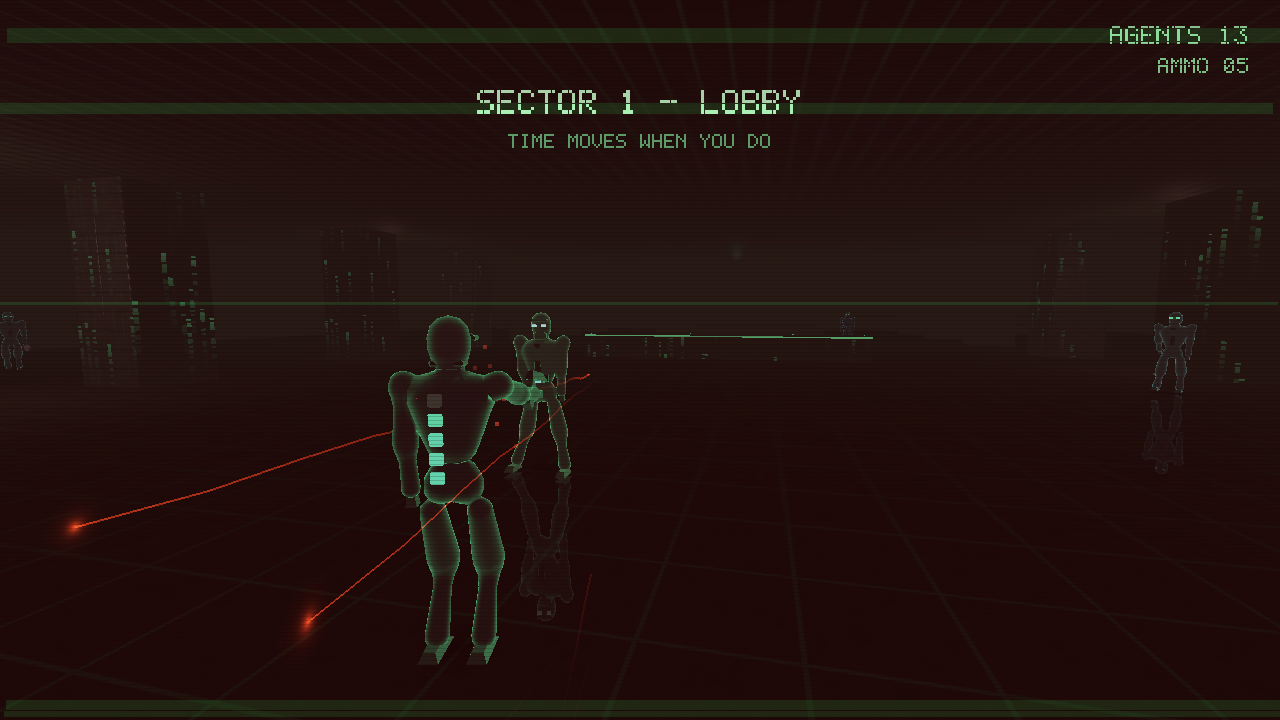
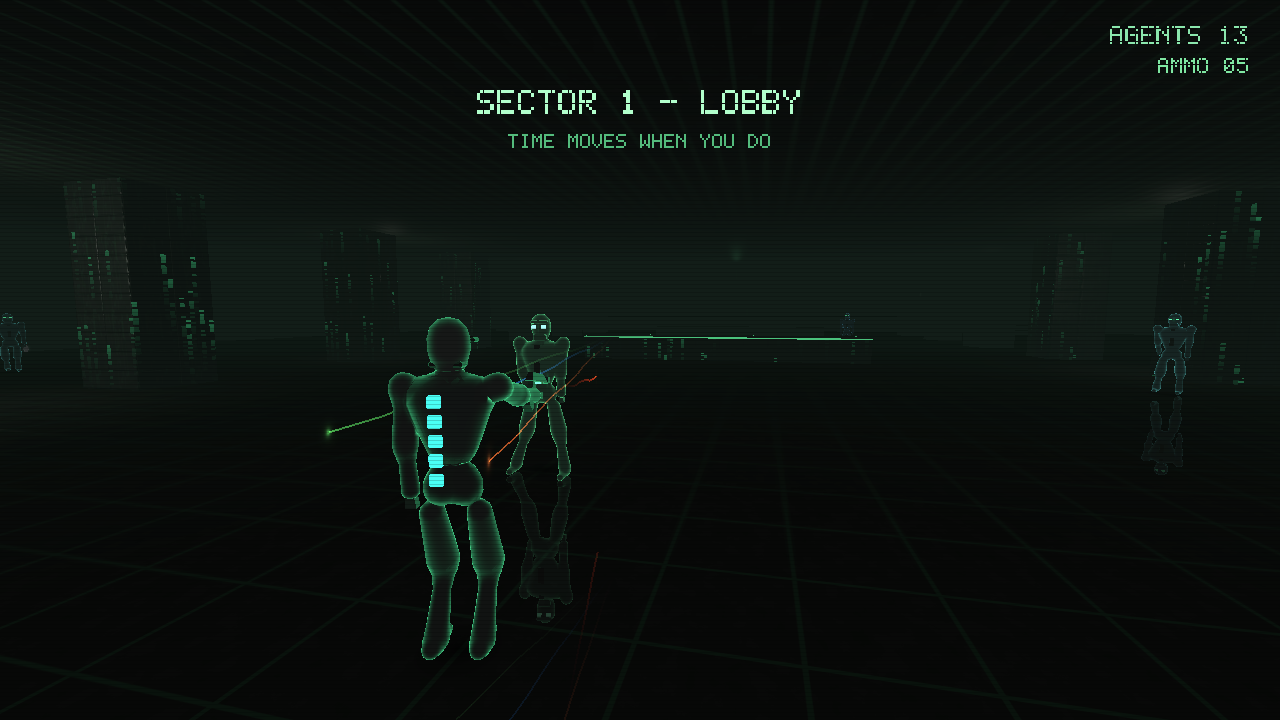
Tie the gun chain to the drawn pistol; smooth stride/torso; shell feet
The laser beam, lock-on test, muzzle flash, bullet spawn and temp light
all originated at a fixed shoulder-space offset while the visible pistol
hung off the hand IK - two unrelated coordinate systems, so the beam
floated beside the gun. The figure draws now stash the actual barrel-tip
world position each upright frame (the bladeGlow idiom) and
player_muzzle() prefers it, rewiring the whole chain to one coherent
origin with the old math as fallback (roll, katana, first frame,
distance-culled). Enemy agents get the same: their shots and muzzle
light now leave the drawn gun-box front face instead of a point 0.45u
ahead of the chest.

Motion smoothing: combat-stance torso yaw eases toward the look yaw
(angto, rate 17) instead of snapping with the mouse - safe because the
beam is glued to the gun by construction; the stride's swing half is a
cosine ease (zero foot velocity at both reversals) while the stance half
keeps the linear sweep that locks planted feet to the floor.

Feet join the blend-shell: the hard-cut foot wedges (which popped
against the smooth shell legs and rotated visibly when the body yawed
over a planted foot) become heel->toe round cones recorded into each
figure's shell - boots on the player/agents, fused digitigrade hooves on
the boss. The player's upright foot now follows the ankle instead of
being pinned to floor height, so the swing foot finally lifts with the
stride. +2 shapes/figure (player/agent 23, boss 20, within MAXSHAPES);
[…]

diff --git a/dilation.c b/dilation.c
@@ -1219,10 +1219,17 @@ static float rollT,rollCD,rollDX,rollDZ;    /* dodge roll: timer + direction  */
 static float kvx,kvz;                       /* wall-kick horizontal impulse   */
 static float pmoveb;                        /* idle<->run blend for the avatar*/
 static float avYaw;                         /* smoothed avatar facing (rad)   */
+static float cmbYaw;                        /* smoothed combat pose yaw (rad, negated convention) */
 static float camDist=3.05f,camYs=-1.0f;     /* smoothed camera boom + height  */
 static float coyT;                          /* coyote time: late edge jumps   */
 static float hurtCD;                        /* post-hit mercy window          */
 static float mzT,mzX,mzY,mzZ;               /* avatar muzzle flash            */
+/* pose-fed muzzle anchors: the figure draws stash the ACTUAL barrel-tip world
+ * position each upright frame (bladeGlow idiom); the laser/bullets/flash read
+ * it so the beam grows out of the drawn gun instead of a fixed shoulder
+ * offset. valid==0 falls back to the old rigid math (roll, katana, culled). */
+static float gunGlow[4];                    /* player pistol tip: x,y,z,valid */
+static float agentGun[MAXENEMY][4];         /* enemy pistol tips: x,y,z,valid */
 
 static float player_height(void){ return rollT>0 ? 0.85f : 1.72f; }
 static float player_camh(void){ return py + (rollT>0 ? 1.45f : 1.92f); }
@@ -1237,6 +1244,8 @@ static void reset_game(void){
   gen_level(curlevel,gseed);
   px=startx; pz=startz; pyaw=startyaw; ppitch=0; pvx=pvz=pvy=0;
   avYaw=startyaw*PI/180.0f;
+  cmbYaw=-startyaw*PI/180.0f;   /* combat pose yaw uses the negated convention */
+  gunGlow[3]=0; memset(agentGun,0,sizeof agentGun);
   py=hgt[(int)(startz/CELL)][(int)(startx/CELL)];
   php=100; pammo=6; haspistol=1; jumps=1;
   tscale=1; actT=0; mouseAcc=0;
@@ -1396,9 +1405,12 @@ static void player_aim(float*dx,float*dy,float*dz){
  * avatar's right-hand pistol so the laser/rounds read as coming from the gun,
  * while direction remains fully controlled by the player's look yaw/pitch. */
 static void player_muzzle(float*ox,float*oy,float*oz){
-  /* Keep the ballistic/laser origin near the authored right hand.  The visible
-   * pistol is attached to the hand transform in draw_player(); this fixed
-   * shoulder-space offset avoids the previous free-floating aim-basis gun. */
+  /* Preferred origin: the ACTUAL barrel tip stashed by draw_player last frame
+   * (1-frame pose latency, invisible). The beam, lock test, bullets, flash and
+   * temp light all route through here, so they stay glued to the drawn gun. */
+  if(gunGlow[3]>0){ *ox=gunGlow[0]; *oy=gunGlow[1]; *oz=gunGlow[2]; return; }
+  /* Fallback (roll, katana swing, first frame, post-reset): the old fixed
+   * shoulder-space offset near the authored right hand. */
   float yr=avYaw;
   float fx=sinf(yr), fz=-cosf(yr), rx=cosf(yr), rz=sinf(yr);
   float crouch=rollT>0?0.46f:1.0f;
@@ -1773,6 +1785,10 @@ static void update_enemies(float wdt){
            * roll under it, jump over it, or stand still and study it */
           float my=e->y+1.36f, aimY=py+1.28f;
           float hx=e->x+sinf(e->yaw)*0.45f, hz=e->z-cosf(e->yaw)*0.45f;
+          /* fire from the drawn pistol tip when the agent was rendered last
+           * frame; distance-culled shooters keep the chest-forward fallback */
+          { int gi=(int)(e-en);
+            if(agentGun[gi][3]>0){ hx=agentGun[gi][0]; my=agentGun[gi][1]; hz=agentGun[gi][2]; } }
           for(int k=-1;k<=1;k++){
             float sp=k*0.14f+(frand()-0.5f)*0.03f;
             float bdx=dx+(-dz)*sp, bdz=dz+dx*sp;
@@ -2187,7 +2203,10 @@ static void draw_boss(Enemy*e){
     float LL[9],RK[9]; m3rotX(RK, sw+kb+tuck*0.9f); m3mul(S,RK,RZ); m3mul(LL,M,S);
     fig_tint(hide[0]*0.85f,hide[1]*0.85f,hide[2]*0.85f);  /* darker shank */
     float ax,ay,az; limb_seg(LL,kx,ky,kz,-0.42f, 0.22f,0.15f,0.86f,8, -0.84f, &ax,&ay,&az);
-    put(LL,ax,ay,az,0,-0.04f,-0.22f); wedge_sh(0.34f,0.18f,0.55f);
+    /* foot pad joins the shell: heel->toe round cone in the shank basis; at
+     * k=0.15 it fuses with the shank into a digitigrade hoof */
+    { float fa[3],fb[3]; m3v(LL,0,-0.01f,0.06f,fa); m3v(LL,0,-0.05f,-0.42f,fb);
+      shell_capsule(ax+fa[0],ay+fa[1],az+fa[2], ax+fb[0],ay+fb[1],az+fb[2],0.130f,0.095f); }
   }
   /* thorax: barrel waist swelling into a bulbous chest. The old non-uniform
    * scaled cylinder/ellipsoid become a squat round cone + two crossed capsules
@@ -2343,7 +2362,10 @@ static void draw_agent(Enemy*e,float dim){
     float LL[9],RK[9]; m3rotX(RK,sw*e->fwdb+kb); m3mul(S,RK,RZ); m3mul(LL,M,S);
     fig_tint(trunk[0]*0.85f,trunk[1]*0.85f,trunk[2]*0.85f);     /* darker shin */
     float ax,ay,az; limb_seg(LL,kx,ky,kz,-0.22f, 0.078f,0.052f,0.44f,8, -0.42f, &ax,&ay,&az);
-    put(M,ax,ay,az,0,-0.02f,-0.07f); wedge_sh(0.12f,0.065f,0.27f);
+    /* foot pad joins the shell: heel->toe round cone so the ankle blends into
+     * a boot instead of a hard wedge popping against the smooth shin */
+    { float fa[3],fb[3]; m3v(M,0,-0.015f,0.05f,fa); m3v(M,0,-0.035f,-0.16f,fb);
+      shell_capsule(ax+fa[0],ay+fa[1],az+fa[2], ax+fb[0],ay+fb[1],az+fb[2],0.055f,0.042f); }
   }
   /* pelvis + chest: hips wider than the waist, chest flares to the shoulders
    * — the V-taper. Depth-squashed to a slab; idle gets a breathing swell. */
@@ -2403,6 +2425,10 @@ static void draw_agent(Enemy*e,float dim){
     if(ai&&e->type==0&&raise>0.05f){ /* pistol in the raised hand */
       glUniform3f(uTint,0.03f,0.035f,0.04f);
       put(F,hx2,hy2,hz2,0,-0.10f,-0.14f); box_sh(0.06f,0.09f,0.24f);
+      /* stash the gun-box front face as this agent's shot origin */
+      if(!refl){ int gi=(int)(e-en); float mo[3]; m3v(F,0,-0.10f,-0.27f,mo);
+        agentGun[gi][0]=hx2+mo[0]; agentGun[gi][1]=hy2+mo[1]; agentGun[gi][2]=hz2+mo[2];
+        agentGun[gi][3]=1.0f; }
       fig_tint(trunk[0],trunk[1],trunk[2]);
     }
   }
@@ -2460,7 +2486,7 @@ static void draw_player(void){
    * player_aim() uses (sin(+pyaw),-cos(pyaw)).  Use the negated look yaw for
    * the visible aiming pose so the body/gun point along the laser instead of
    * mirroring away from it. */
-  float poseYaw = combatStance ? -pyaw*PI/180.0f : avYaw;
+  float poseYaw = combatStance ? cmbYaw : avYaw;
   float spd=sqrtf(pvx*pvx+pvz*pvz);
   float run=clampf(spd/5.0f,0,1)*pmoveb;
   float fwdb=0,latb=0;
@@ -2508,7 +2534,8 @@ static void draw_player(void){
       float LL[9],RK[9]; m3rotX(RK,fwdb+1.5f); m3mul(LL,M,RK);
       fig_tint(0.034f,0.042f,0.038f);              /* darker shin */
       float ax,ay,az; limb_seg(LL,kx,ky,kz,-0.20f, 0.074f,0.050f,0.42f,8, -0.40f, &ax,&ay,&az);
-      set_uM(LL,ax,ay,az); wedge_sh(0.12f,0.055f,0.24f);
+      { float fa[3],fb[3]; m3v(LL,0,-0.02f,0.05f,fa); m3v(LL,0,-0.03f,-0.15f,fb);
+        shell_capsule(ax+fa[0],ay+fa[1],az+fa[2], ax+fb[0],ay+fb[1],az+fb[2],0.050f,0.038f); }
       continue;
     }
     /* stride phase: antiphase feet, triangle sweep + swing-half lift. The
@@ -2517,7 +2544,10 @@ static void draw_player(void){
     float tri   = ph<PI ? 1.0f-2.0f*ph/PI : -1.0f+2.0f*(ph-PI)/PI;
     float swing = ph<PI ? 0.0f : sinf(ph-PI);
     float strideHalf=0.33f*run;
-    float along=strideHalf*tri, lift=swing*0.14f*run;
+    /* stance half keeps the linear tri sweep (planted foot must move at
+     * constant ground speed or it skates); the swing return is a cosine ease
+     * so foot velocity is zero at BOTH reversals - no more triangle corners */
+    float along=strideHalf*(ph<PI ? tri : -cosf(ph-PI)), lift=swing*0.14f*run;
     float tgx=hx+fdx*along, tgz=hz+fdz*along, tgy=py+0.03f+lift;
     /* keep the target inside the leg's reach so the knee never snaps straight */
     float L1=0.50f,L2=0.46f, maxr=(L1+L2)*0.985f, minr=0.10f;
@@ -2534,8 +2564,11 @@ static void draw_player(void){
     float LB[9]; aim_basis(tgx-jx,tgy-jy,tgz-jz,LB);
     fig_tint(0.034f,0.042f,0.038f);                         /* darker shin */
     float ax,ay,az; limb_seg(LB,jx,jy,jz,-L2*0.52f, 0.074f,0.050f,L2*1.04f,8, -L2, &ax,&ay,&az);
-    float FF[9]; m3rotY(FF,poseYaw);                        /* foot flat on the floor */
-    set_uM(FF,ax,py+0.027f,az); wedge_sh(0.12f,0.055f,0.26f);
+    /* boot: heel->toe round cone along the body's true forward, recorded into
+     * the shell so the ankle blends smoothly. Anchored to the ankle (ay), not
+     * pinned to the floor - the swing foot finally lifts with the stride. */
+    shell_capsule(ax-polex*0.06f, ay+0.025f, az-polez*0.06f,
+                  ax+polex*0.17f, ay+0.005f, az+polez*0.17f, 0.055f,0.040f);
   }
 
   /* pelvis / jacket: same V-taper language as the agents — slab cylinders as
@@ -2623,6 +2656,12 @@ static void draw_player(void){
        * the hand instead of hanging below the wrist. */
       float go[3],lift[3]; m3v(GP,0,0.145f,0.020f,go); m3v(F,0,0.125f,0,lift);
       pistol_sh(GP,hx2+go[0]+lift[0],hy2+go[1]+lift[1],hz2+go[2]+lift[2],pammo);
+      /* stash the barrel tip (gun-local (0,-0.01,-0.40), just past the muzzle
+       * block) for the laser/bullet/flash origin. Never from the tucked roll
+       * pose: the event poll runs before the next draw replaces the stash. */
+      if(!refl && !rolling){ float mo[3]; m3v(GP,0,-0.010f,-0.40f,mo);
+        gunGlow[0]=hx2+go[0]+lift[0]+mo[0]; gunGlow[1]=hy2+go[1]+lift[1]+mo[1];
+        gunGlow[2]=hz2+go[2]+lift[2]+mo[2]; gunGlow[3]=1.0f; }
       fig_emis(0.08f);
       fig_tint(0.04f,0.05f,0.045f);
     }
@@ -2874,8 +2913,8 @@ static void draw_world(float camx,float camy,float camz){
   glUniform1f(uTime,wtime); glUniform1f(uRain,0); glUniform1f(uAlpha,1);
   glUniform3f(uFog,L->fog[0],L->fog[1],L->fog[2]);
   glUniform1f(uRim,0);   /* figures opt into the rim; world stays matte */
-  for(int i=0;i<nen;i++)eyeGlow[i][3]=0;  /* cleared; figures re-stash this frame */
-  bladeGlow[3]=0;
+  for(int i=0;i<nen;i++){ eyeGlow[i][3]=0; agentGun[i][3]=0; }  /* cleared; figures re-stash this frame */
+  bladeGlow[3]=0; gunGlow[3]=0;
 
   /* pick 8 nearest lights (static + temp) */
   float lp[SHLIGHTS*4], lc[SHLIGHTS*3]; int ln=0;
@@ -3542,6 +3581,11 @@ int main(int argc,char**argv){
       /* the avatar's facing eases toward the roll direction and back —
        * no yaw snap entering or leaving a sideways roll */
       avYaw=angto(avYaw, rollT>0? atan2f(rollDX,-rollDZ) : pyaw*PI/180.0f, dt*14.0f);
+      /* combat pose yaw eases toward the look yaw instead of snapping with the
+       * mouse; runs during rolls too so roll-exit resumes already converged.
+       * The gun-tip muzzle stash keeps the laser glued to the gun through the
+       * lag, so this is purely cosmetic. */
+      cmbYaw=angto(cmbYaw, -pyaw*PI/180.0f, dt*17.0f);
 
       pvy-=18.0f*dt;
       py += pvy*dt;
